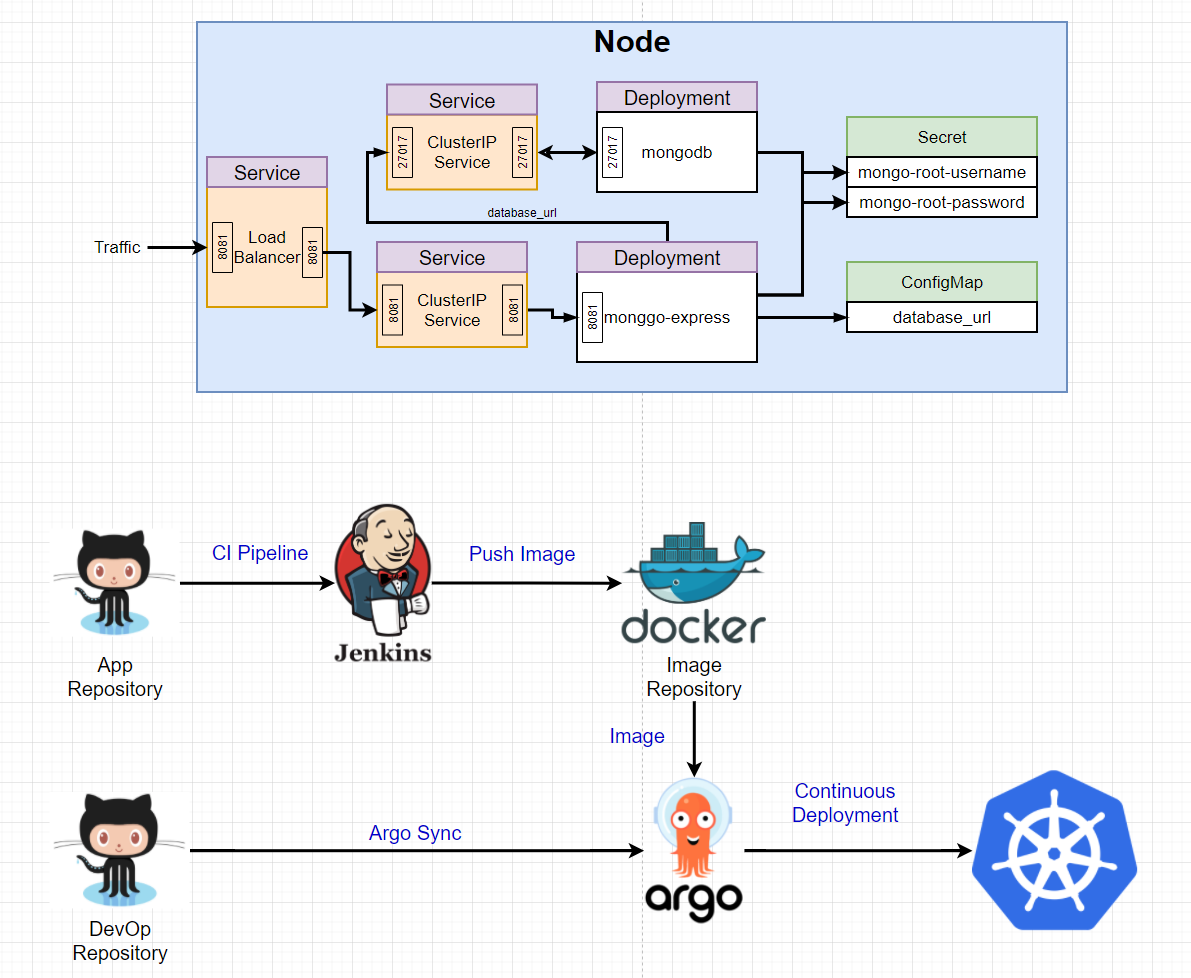
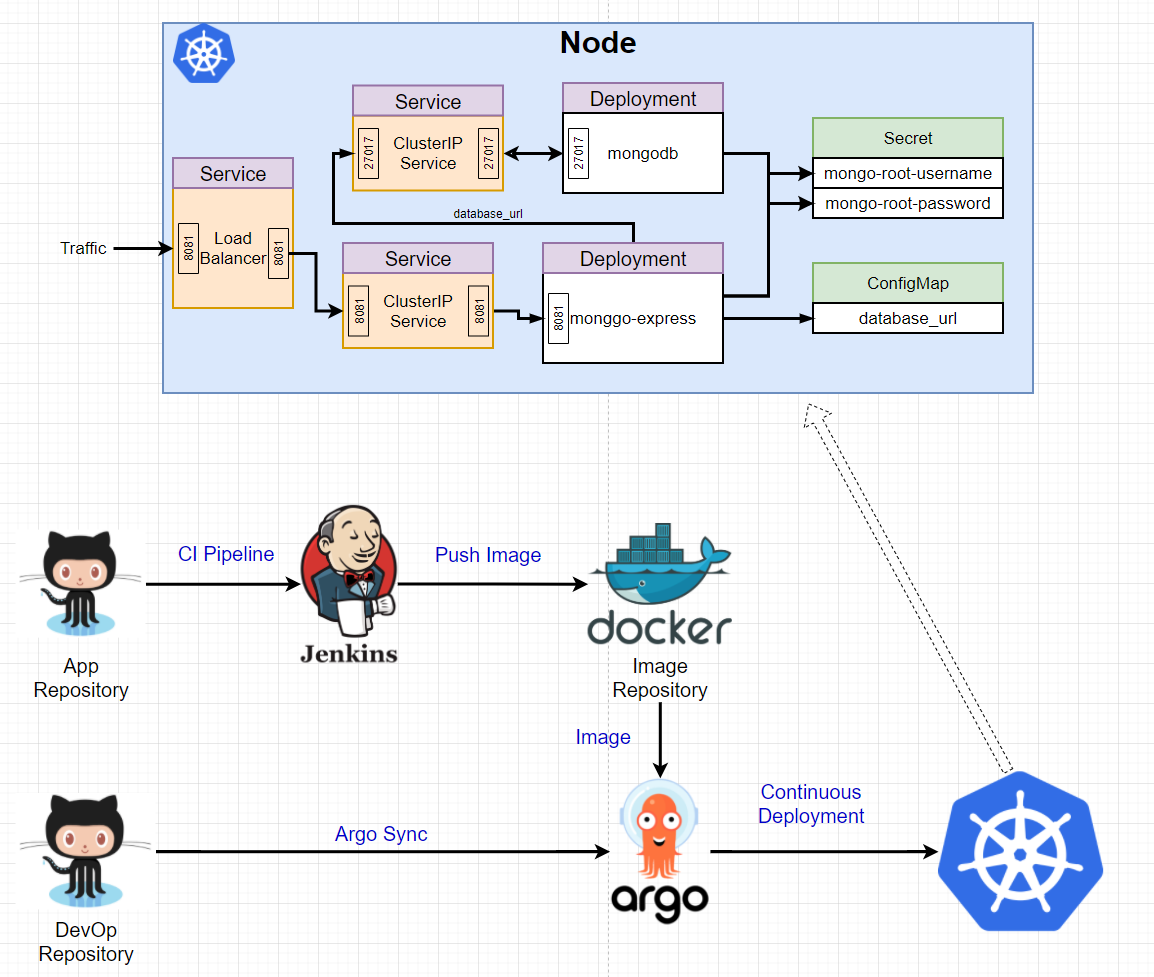
update archtecture image

Changed region(s): [[0.0624, 0.0, 0.8735, 0.4299], [0.0312, 0.4913, 0.9671, 0.9826], [0.4679, 0.0307, 0.5615, 0.0614]]

diff --git a/README.md b/README.md
@@ -8,8 +8,7 @@
 <p>.</p>
 <h3>ArgoCD Application </h3>
 <p>Automates the deployment of the desired application states in the specified target environments</p>
-
-<p>.</p>
+<p>when a developer pushes application code to their git repository, the CI builds the code and a container image is built and registered to the container registry. Then, they push the manifests and Argo CD applies them to a Kubernetes cluster.</p>
 <img src="images/argocd-application.png"
      alt="Markdown Monster icon"
      style="float: left; margin-right: 10px;" />
